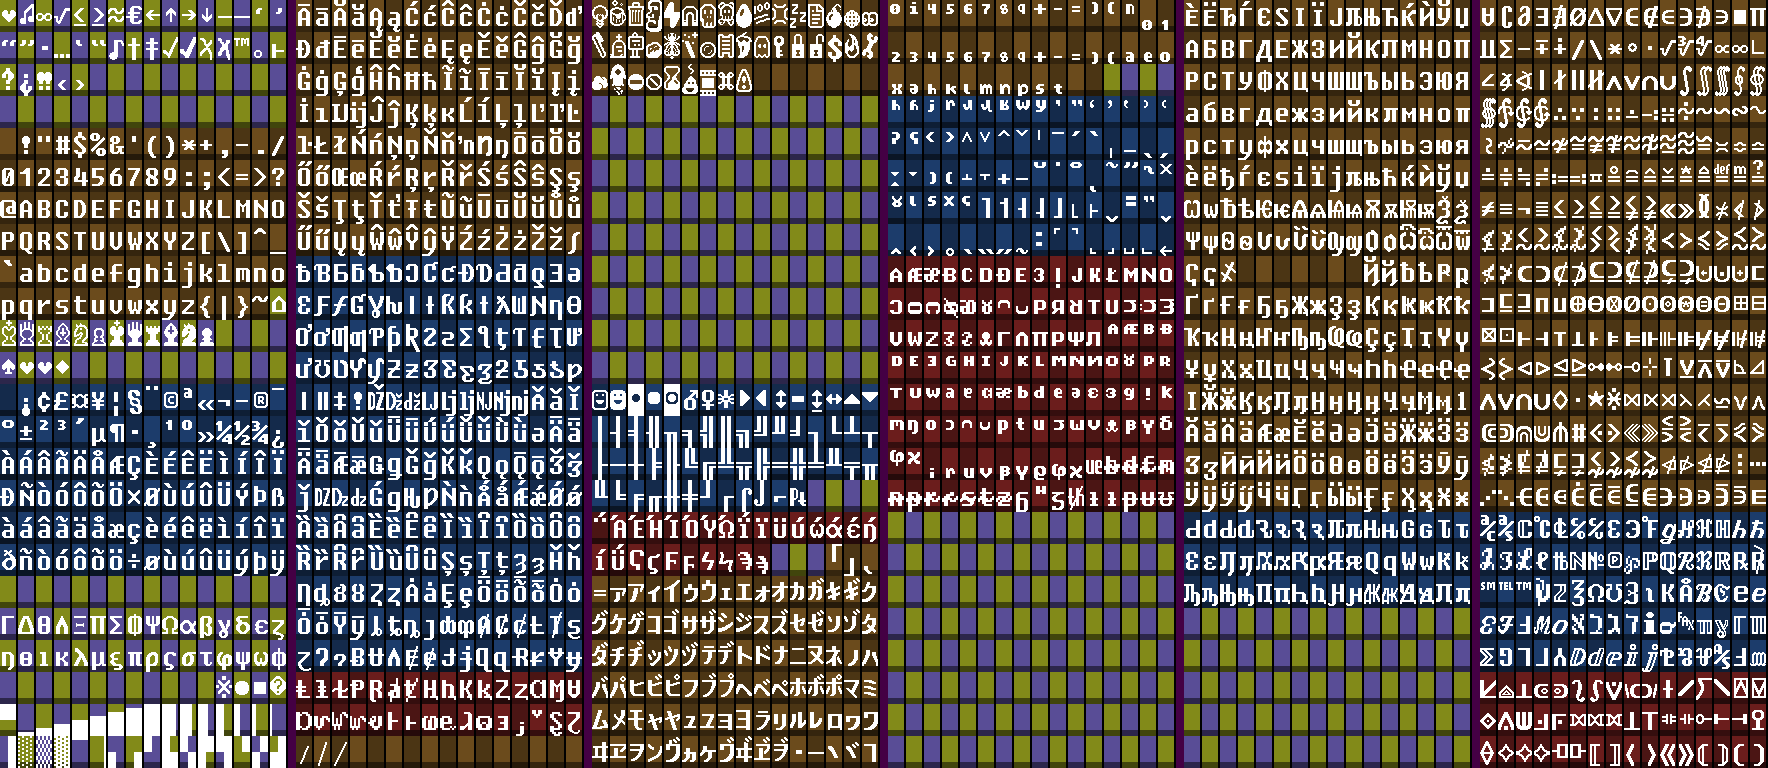
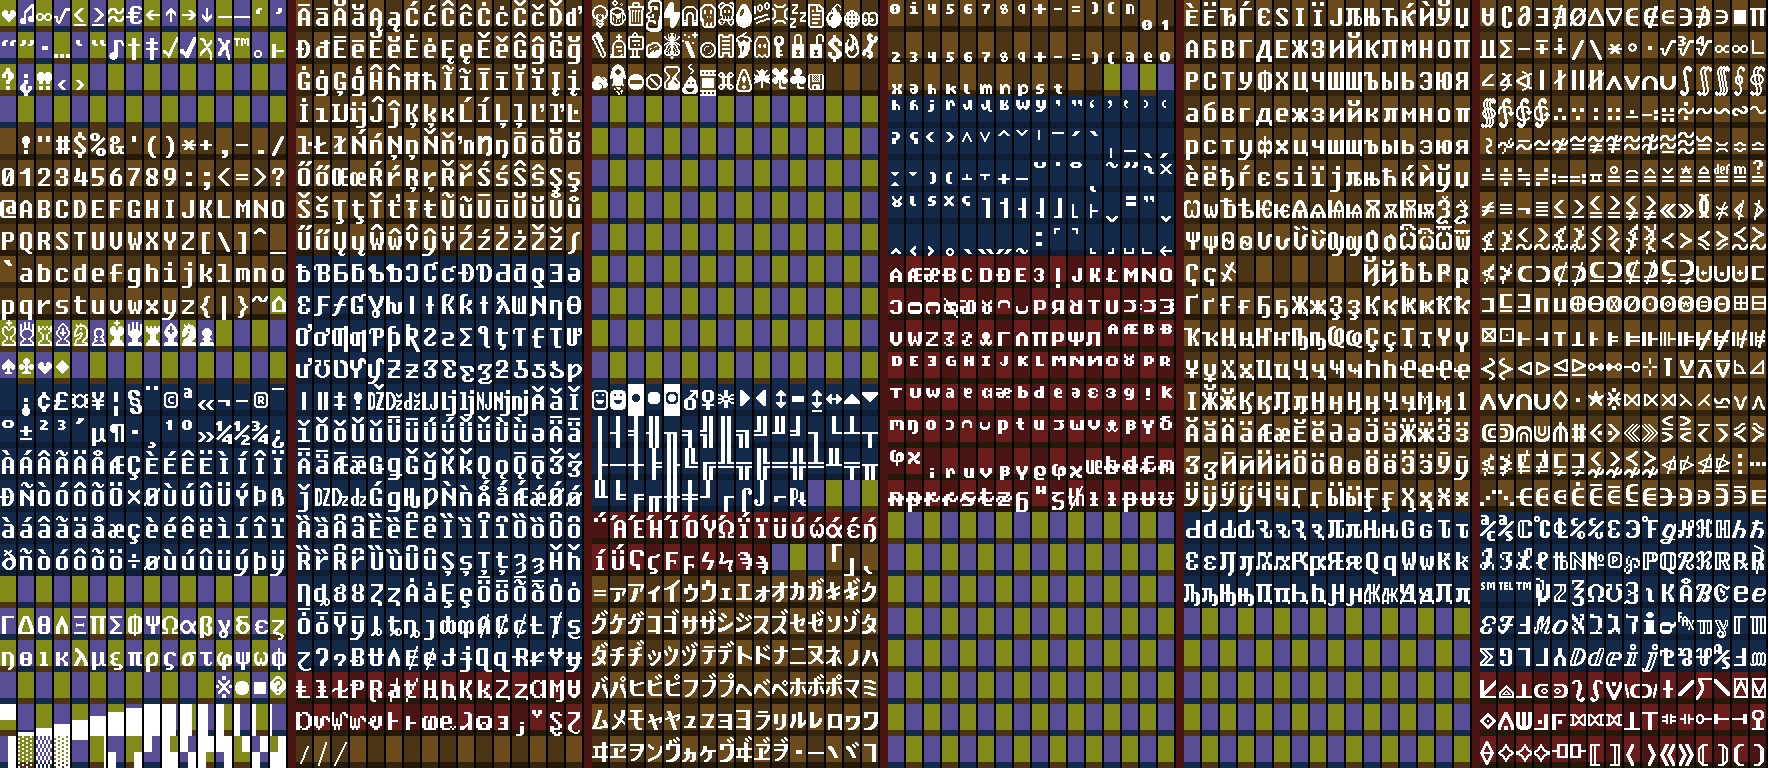
Fix bug where heart suit was used for clubs. Add a few more emoji.
git-svn-id: file:///home/runner/work/tom7misc-sync-action/tom7misc-sync-action/upstream/trunk@7093 c7e11af0-4c7a-11f1-9edd-117cb6f09d55

Changed region(s): [[0.0, 0.0, 1.0, 1.0], [0.4044, 0.0938, 0.4666, 0.125]]

diff --git a/bit7/font-image.cc b/bit7/font-image.cc
@@ -194,10 +194,10 @@ static PageInfo PageBit7Classic() {
     -1, -1, -1, -1,
 
     // Blank line
-    // "Black" (filled) suits (Spade, Heart, Club, Diamond)
+    // "Black" (filled) suits (Spade, Club, Heart, Diamond)
     0x2660, 0x2663, 0x2665, 0x2666,
-    // White (outlined) suits (Spade, Heart, Club, Diamond)
-    0x2664, 0x2661, 0x2667, 0x2662,
+    // White (outlined) suits (Spade, Club, Heart, Diamond)
+    0x2664, 0x2667, 0x2661, 0x2662,
     // (die faces?)
     -1, -1, -1, -1, -1, -1, -1, -1,
 
@@ -781,7 +781,12 @@ static PageInfo PageBit7Extended() {
     // Warning Sign
     0x26A0,
 
-    -1, -1, -1, -1, -1, -1, -1,
+    0x1f341,  // maple leaf
+    0x1F340,  // four-leaf clover
+    0x2618,   // shamrock (needs variant selector to show emoji)
+    0x1F4BE,  // floppy disk
+
+    -1, -1, -1,
 
     -1, -1, -1, -1, -1, -1, -1, -1, -1, -1, -1, -1, -1, -1, -1, -1,
     -1, -1, -1, -1, -1, -1, -1, -1, -1, -1, -1, -1, -1, -1, -1, -1,
